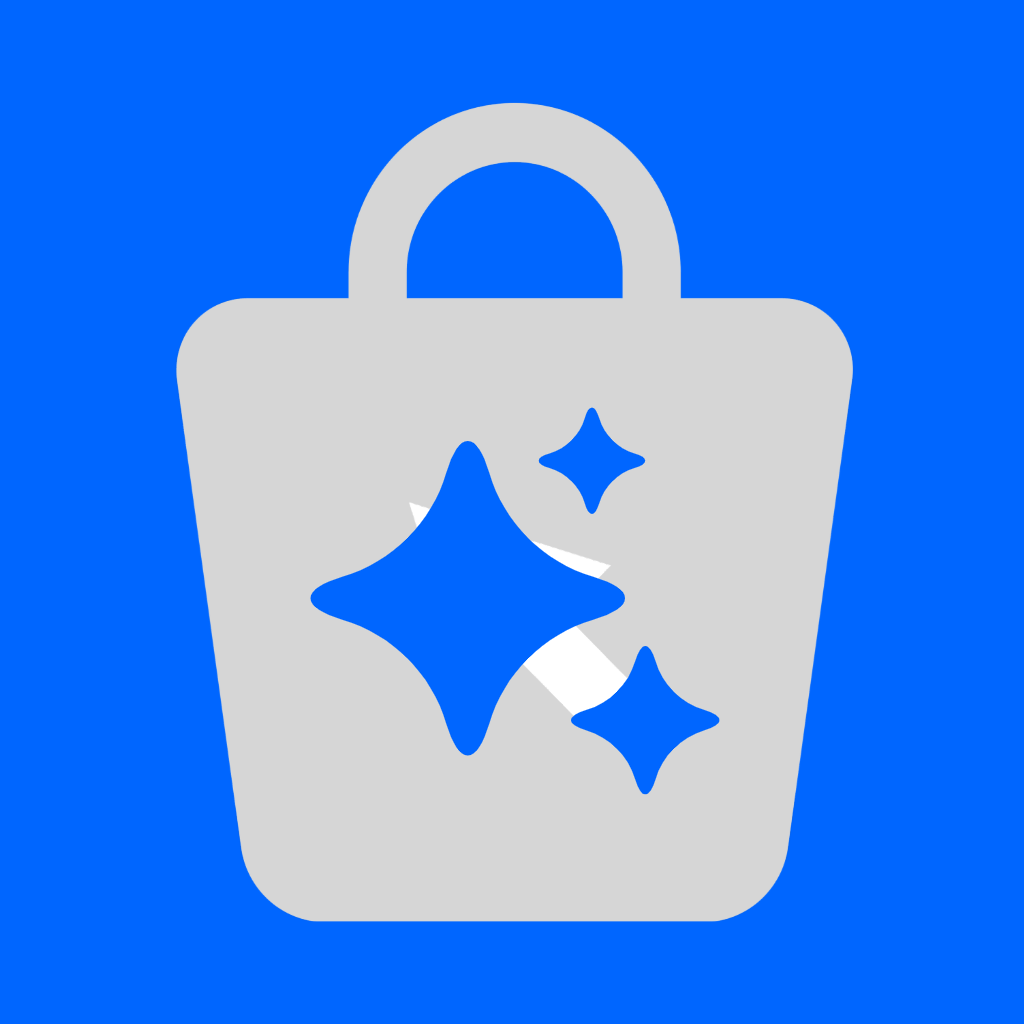
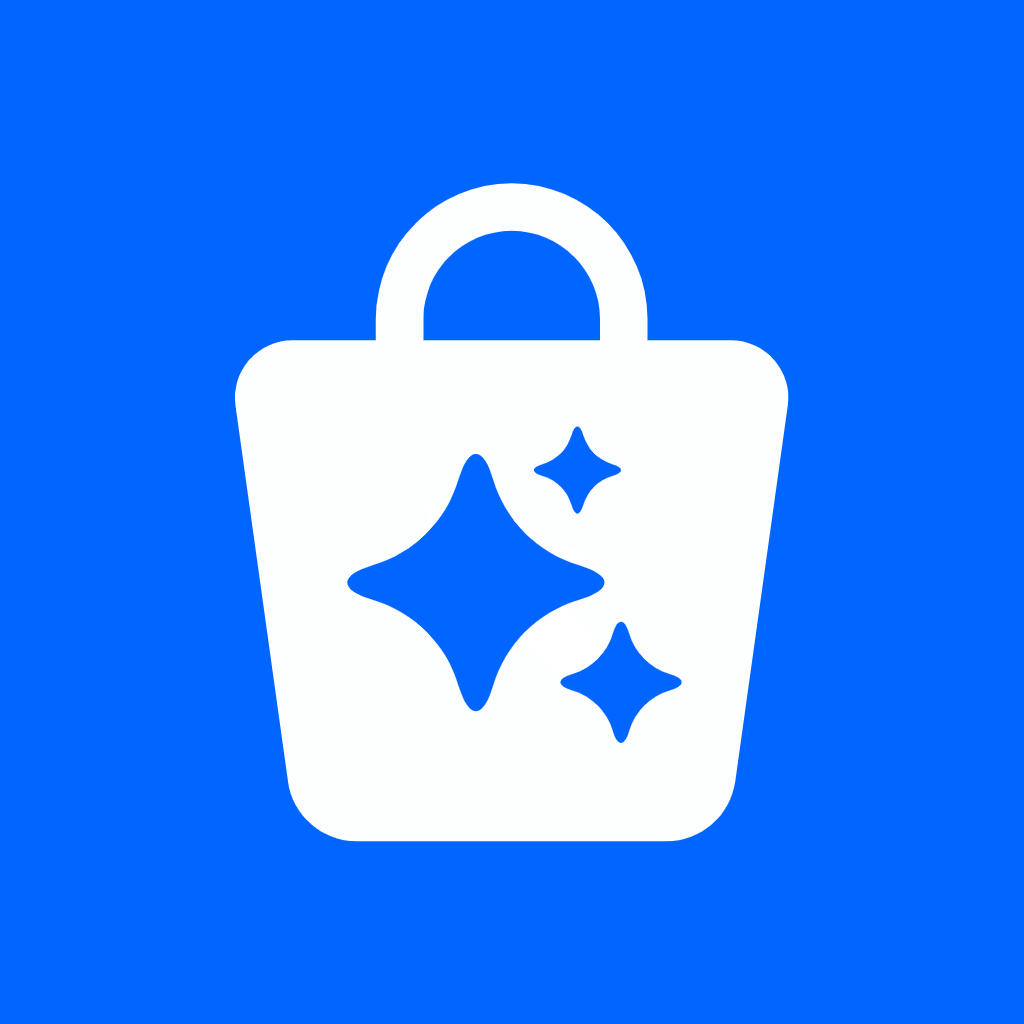
Actualizar icono de AllCommerce con margen mas equilibrado
Generated with [Devin](https://devin.ai)

diff --git a/tool/generate_launcher_icons.dart b/tool/generate_launcher_icons.dart
@@ -129,17 +129,17 @@ Future<void> generateAllPlatformIcons() async {
         .writeAsBytes(await renderIcon(source, e.value, cornerFactor: 0.22));
     await File(
       '$dir/ic_launcher_round.png',
-    ).writeAsBytes(await renderIcon(source, e.value, round: true, pad: 0.08));
+    ).writeAsBytes(await renderIcon(source, e.value, round: true, pad: 0.03));
   }
 
   for (final MapEntry<String, int> e in _foregroundDensities.entries) {
     final String dir = 'android/app/src/main/res/mipmap-${e.key}';
     await File('$dir/ic_launcher_foreground.png')
-        .writeAsBytes(await renderIcon(source, e.value, pad: 0.20));
+        .writeAsBytes(await renderIcon(source, e.value, pad: 0.14));
   }
 
   await File('android/app/src/main/res/drawable-nodpi/splash_brand_logo.png')
-      .writeAsBytes(await renderIcon(source, 512, pad: 0.16));
+      .writeAsBytes(await renderIcon(source, 512, pad: 0.10));
 
   await File('web/favicon.png')
       .writeAsBytes(await renderIcon(source, 64, cornerFactor: 0.22));
@@ -148,9 +148,9 @@ Future<void> generateAllPlatformIcons() async {
   await File('web/icons/Icon-512.png')
       .writeAsBytes(await renderIcon(source, 512));
   await File('web/icons/Icon-maskable-192.png')
-      .writeAsBytes(await renderIcon(source, 192, pad: 0.12));
+      .writeAsBytes(await renderIcon(source, 192, pad: 0.06));
   await File('web/icons/Icon-maskable-512.png')
-      .writeAsBytes(await renderIcon(source, 512, pad: 0.12));
+      .writeAsBytes(await renderIcon(source, 512, pad: 0.06));
 
   const List<int> sizes = <int>[16, 32, 48, 64, 128, 256];
   final List<Uint8List> pngs = <Uint8List>[
